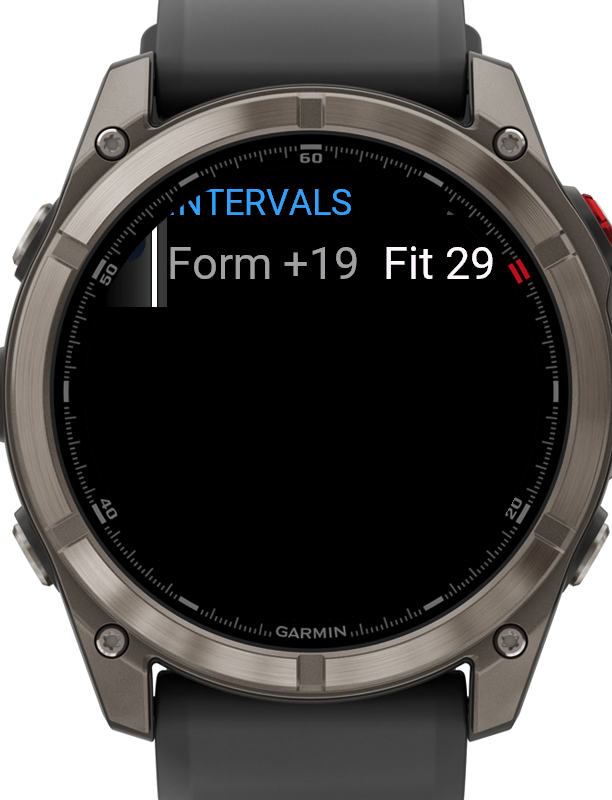
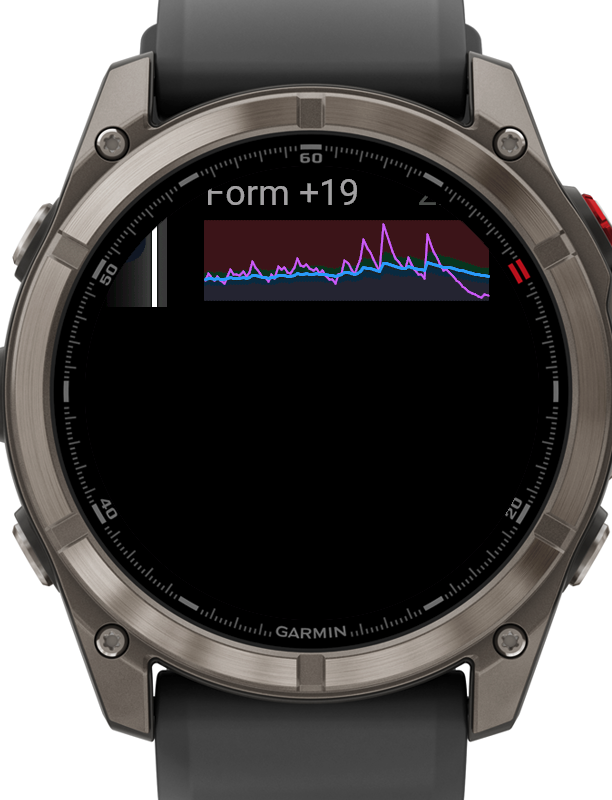
Glance mini load chart; store export mode for beta distribution
The glance now draws a compact banded CTL/ATL chart (self-contained to
stay inside the 64KB glance pool) with the form value in the header,
inset for the round chord and the carousel focus bar. build.sh --export
produces a store-ready .iq that deliberately omits the personal .apikey.

Changed region(s): [[0.2794, 0.2188, 0.8072, 0.375]]

diff --git a/README.md b/README.md
@@ -21,8 +21,9 @@ More: [eFTP](docs/screenshots/05-eftp-ring.png) ·
 
 ## Features
 
-- **Glance** — Form (colored by intervals.icu form zone), Fitness (CTL),
-  Fatigue (ATL), and data age, right in the widget carousel.
+- **Glance** — a compact banded CTL/ATL chart (the form-zone colors at a
+  glance) with the current form value and data age, right in the widget
+  carousel.
 - **Form page** — big TSB value with zone label, plus Fitness / Fatigue /
   Ramp rate.
 - **Polar load chart** — CTL and ATL wrapped around the bezel over the